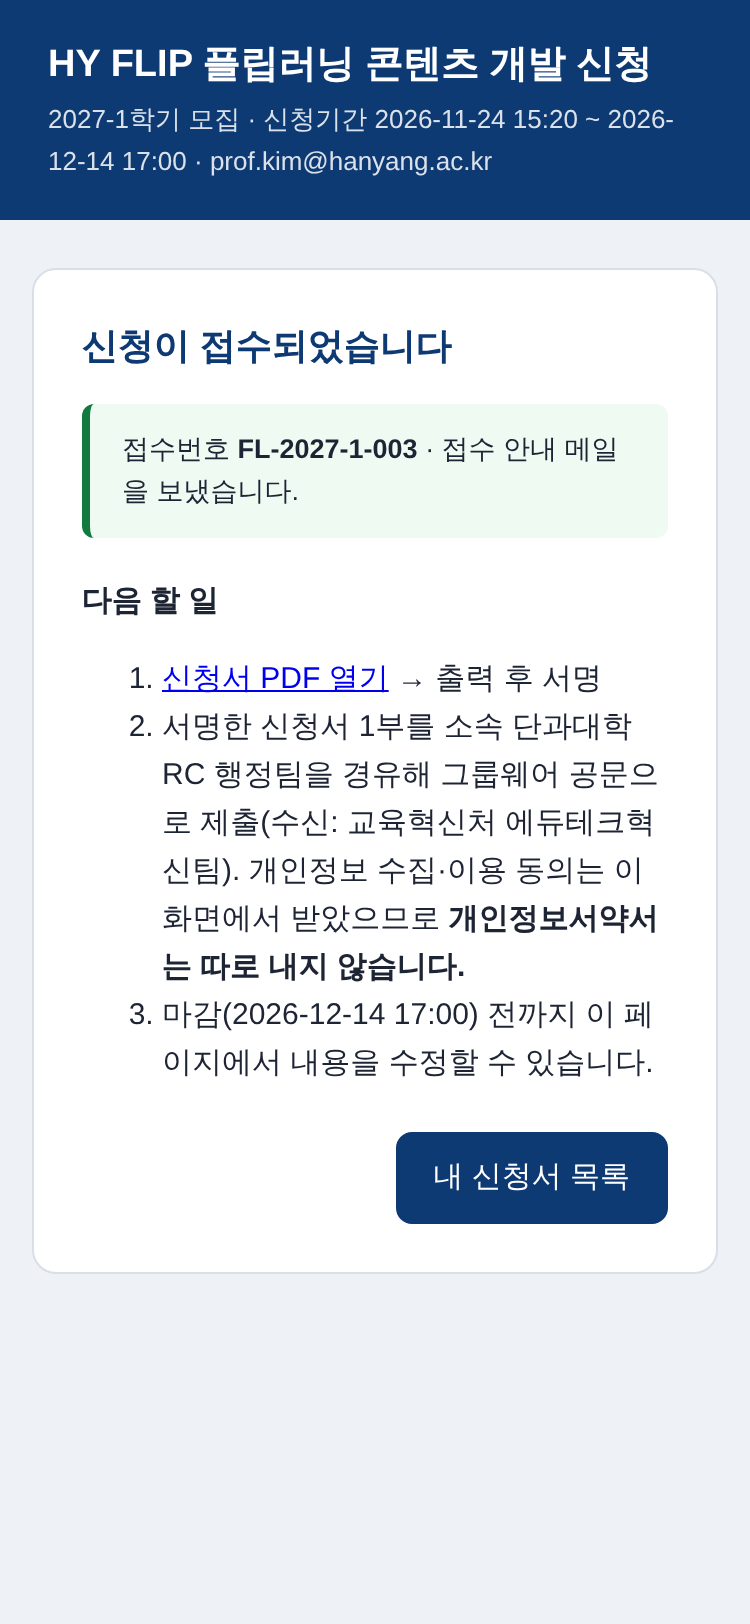
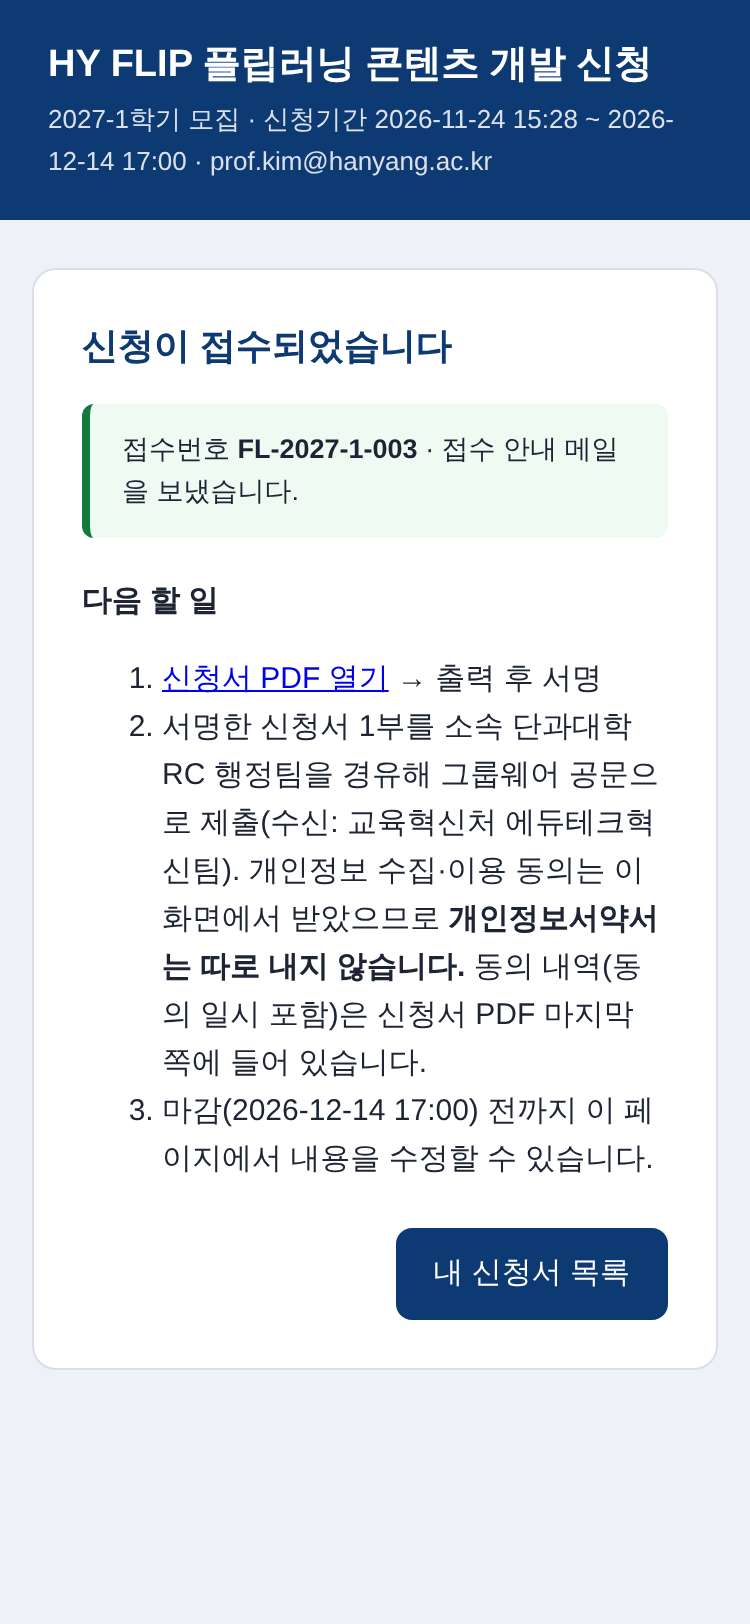
HY FLIP 신청 화면: 동의 내역이 PDF 마지막 쪽에 있다는 안내 추가
- 제출 완료 화면, 재신청 안내 메일, 접수안내 메일 문구 제안, 12/4 점검표에 반영
- shots: 완료 화면 안내 문구 점검 추가

Claude-Session: https://claude.ai/code/session_01V8sEviDtHJYE4byGKRz3rU

Changed region(s): [[0.2147, 0.585, 0.8893, 0.8313]]

diff --git a/hyflip/docs/1204-checklist.html b/hyflip/docs/1204-checklist.html
@@ -108,7 +108,7 @@ const DATA = [
     ['s5', '신청목록의 학기 칸이 날짜가 아니라 2027-1로 보인다', '', ['auto']],
     ['s6', '마감 전 수정해 다시 제출하면 PDF가 새로 바뀌고, 이전 PDF가 드라이브 휴지통에 있다', '버튼 이름이 "수정 내용 제출"인지도 확인', ['auto']],
     ['s7', '행정팀 계정으로 열면 교수 A의 신청서가 목록에 없고, 열 수도 없다', '', ['auto']],
-    ['s8', '제출 완료 화면에 "서명한 신청서 1부를 그룹웨어 공문으로 제출, 개인정보서약서는 따로 내지 않음" 안내가 보인다', '11/25 결정: 온라인 동의로 서약서 대체. 접수안내 메일 문구도 같은지 확인', ['risk']],
+    ['s8', '제출 완료 화면에 "서명한 신청서 1부를 그룹웨어 공문으로 제출, 개인정보서약서는 따로 내지 않음, 동의 내역은 PDF 마지막 쪽" 안내가 보인다', '11/25 결정: 온라인 동의로 서약서 대체. PDF 마지막 쪽 동의 내역(일시)과 접수안내 메일 문구도 확인', ['risk']],
   ]},
   { id: 'status', title: '3. 선정상태 변경 (담당자)', desc: '신청목록의 선정상태 칸을 드롭다운으로 바꿉니다. 실제 편집 트리거와 메일 수신은 실제 환경에서만 확인됩니다.', items: [
     ['t1', '심의중으로 바꾸면 메일이 가지 않는다', '', ['auto']],

diff --git a/hyflip/src/Index.html b/hyflip/src/Index.html
@@ -429,7 +429,7 @@ function doneView() {
     <div class="notice ok">접수번호 <b>${esc(r.id)}</b>${r.isNew ? ' · 접수 안내 메일을 보냈습니다.' : ''}</div>
     <h3>다음 할 일</h3>
     <ol><li><a href="${esc(r.pdf)}" target="_blank">신청서 PDF 열기</a> → 출력 후 서명</li>
-        <li>서명한 신청서 1부를 소속 단과대학 RC 행정팀을 경유해 그룹웨어 공문으로 제출(수신: 교육혁신처 에듀테크혁신팀). 개인정보 수집·이용 동의는 이 화면에서 받았으므로 <b>개인정보서약서는 따로 내지 않습니다.</b></li>
+        <li>서명한 신청서 1부를 소속 단과대학 RC 행정팀을 경유해 그룹웨어 공문으로 제출(수신: 교육혁신처 에듀테크혁신팀). 개인정보 수집·이용 동의는 이 화면에서 받았으므로 <b>개인정보서약서는 따로 내지 않습니다.</b> 동의 내역(동의 일시 포함)은 신청서 PDF 마지막 쪽에 들어 있습니다.</li>
         <li>마감(${esc(INIT.deadline)}) 전까지 이 페이지에서 내용을 수정할 수 있습니다.</li></ol>
     <div class="btns"><span></span><button class="primary" onclick="goHome()">내 신청서 목록</button></div></div>`;
 }

diff --git a/hyflip/preview/shots.js b/hyflip/preview/shots.js
@@ -144,6 +144,7 @@ const OTHER = 'prof.lee@hanyang.ac.kr';
   if (!m) problems.push('접수번호 표시 없음: ' + doneText);
   const doneAll = await p.textContent('#app');
   if (!/서약서는 따로 내지 않습니다/.test(doneAll) || /서약서 1부와 함께/.test(doneAll)) problems.push('완료 화면 개인정보서약서 안내가 11/25 결정과 다름');
+  if (!/PDF 마지막 쪽/.test(doneAll)) problems.push('완료 화면에 "동의 내역은 PDF 마지막 쪽" 안내 없음');
   await shot(p, '08-mobile-done', false);
   const mails = env.state.mails.slice(before);
   if (mails.length !== 1 || mails[0].to !== DEFAULT_USER || (mails[0].opt && mails[0].opt.cc)) {

diff --git a/hyflip/docs/운영매뉴얼.md b/hyflip/docs/운영매뉴얼.md
@@ -63,7 +63,7 @@
 > - 신청 기간: 2026. 12. 5.(토) 09:00 ~ 12. 14.(월) 17:00
 > - 학교 계정(@hanyang.ac.kr)으로 로그인한 교수님 본인만 신청할 수 있습니다.
 > - 작성 중 임시저장할 수 있고, 마감 전까지 수정할 수 있습니다.
-> - 제출 후 만들어지는 신청서 PDF에 서명해 RC 행정팀 경유 공문으로 보내 주십시오. **개인정보서약서는 온라인 동의로 대신하므로 따로 내지 않으셔도 됩니다.**
+> - 제출 후 만들어지는 신청서 PDF에 서명해 RC 행정팀 경유 공문으로 보내 주십시오. **개인정보서약서는 온라인 동의로 대신하므로 따로 내지 않으셔도 됩니다.** 동의 내역(동의 일시 포함)은 신청서 PDF 마지막 쪽에 자동으로 들어갑니다.
 >
 > 문의: 에듀테크혁신팀 02-2220-1406
 

diff --git a/hyflip/docs/설정값_2027-1.md b/hyflip/docs/설정값_2027-1.md
@@ -21,7 +21,7 @@
   - 1차 동영상 점검(50% 이상): ~ 2027-01-15(금). 50% 미만이면 과목 개설 승인 불가
   - 2차 동영상 점검(100%): 2027-02-19(금)
   - HY-LMS 탑재: 2027-02-22 ~ 02-28
-- **접수안내** 본문에 "서명한 신청서 1부를 그룹웨어 공문으로 제출(12/14 17:00까지). 개인정보서약서는 온라인 동의로 대신하므로 따로 내지 않습니다"를 넣습니다. (11/25 결정)
+- **접수안내** 본문에 "서명한 신청서 1부를 그룹웨어 공문으로 제출(12/14 17:00까지). 개인정보서약서는 온라인 동의로 대신하므로 따로 내지 않습니다. 동의 내역은 신청서 PDF 마지막 쪽에 들어 있습니다"를 넣습니다. (11/25 결정)
 
 ## 11/25 결정 사항
 
